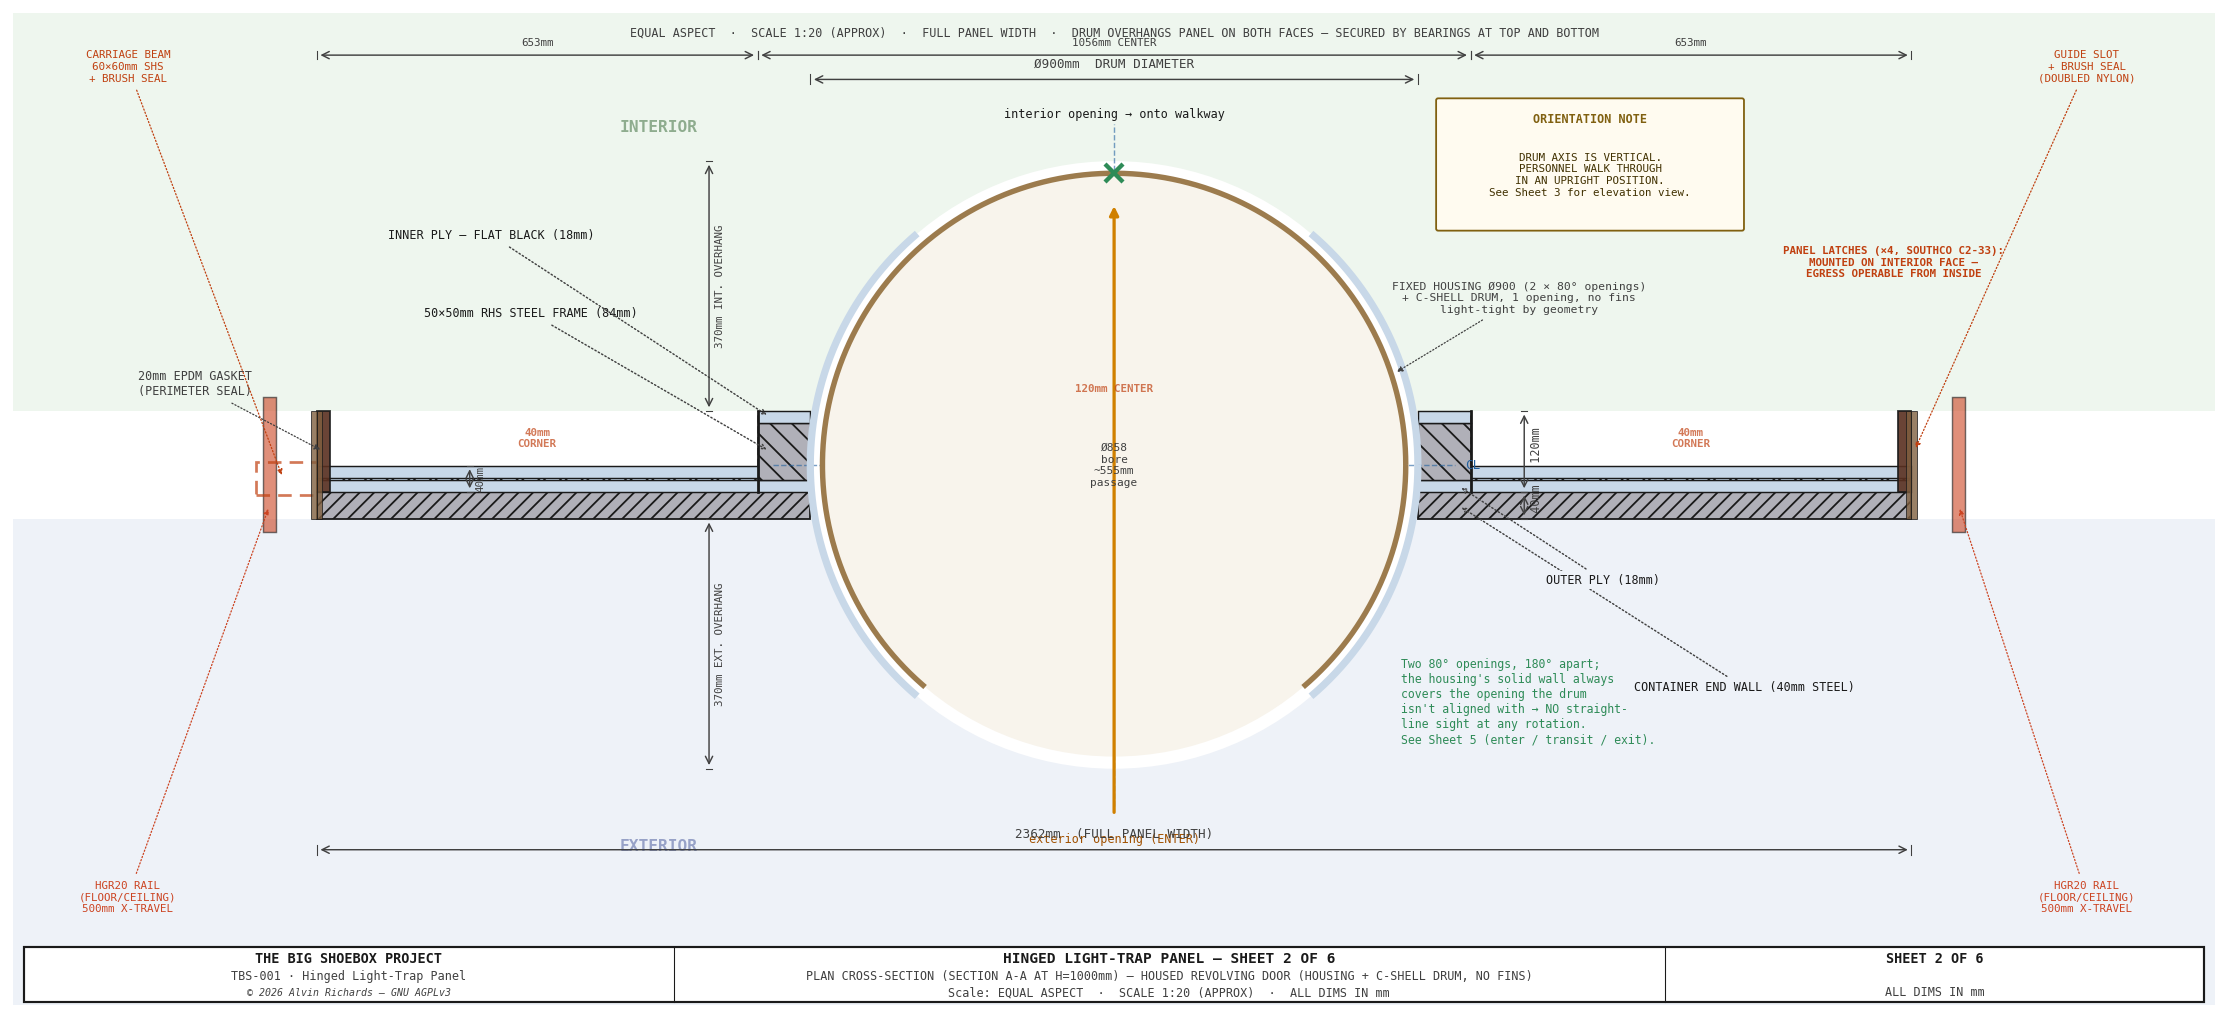
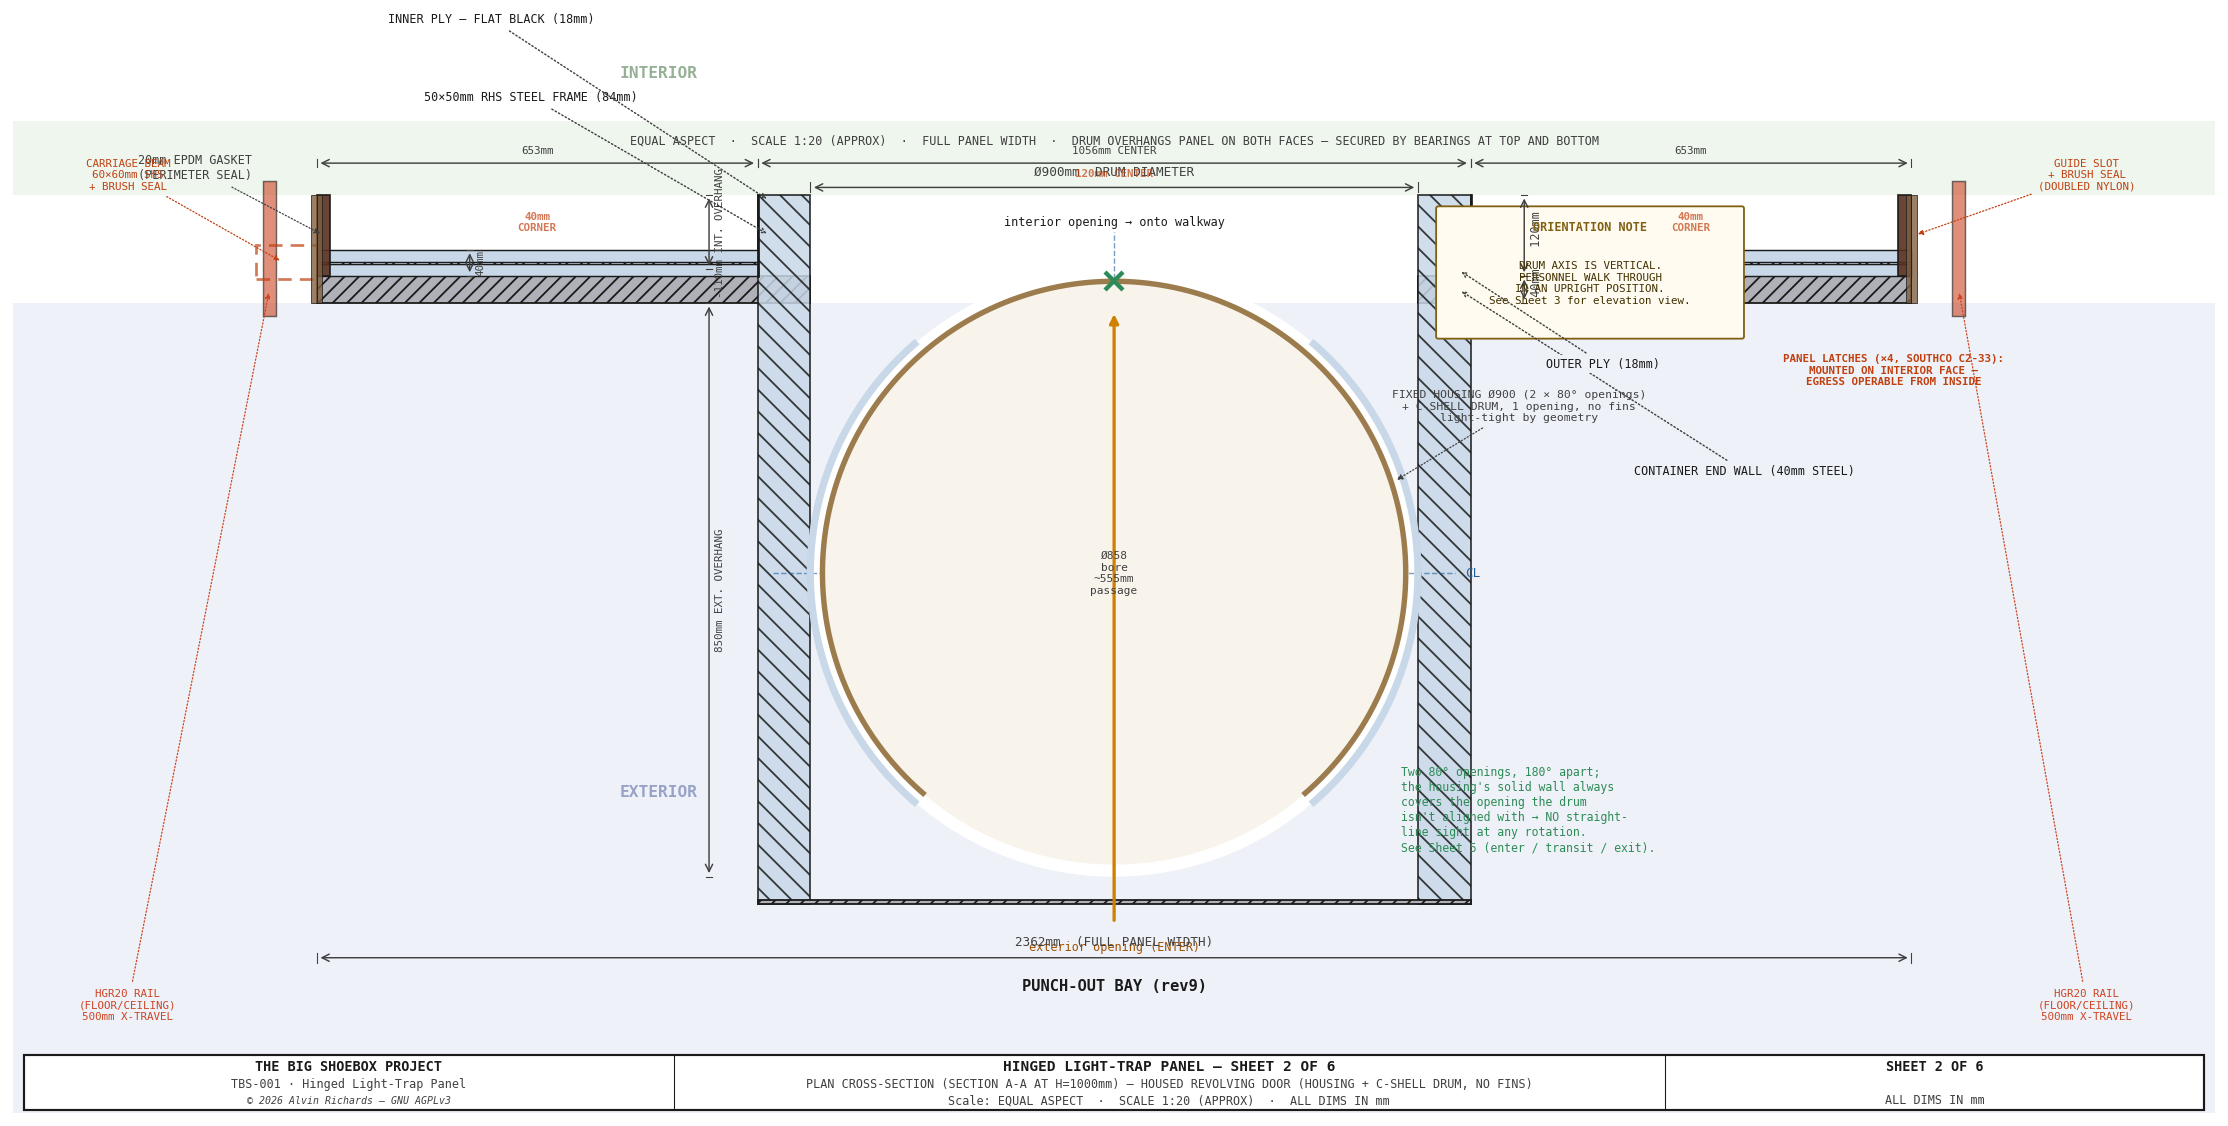
B2 follow-up: hingepanel section sheets — offset housing + punch-out bay
sheet2 (plan section) + sheet3 (elevation section): offset the housing centre in
DEPTH to the container DRUM_CX (-400, derived from BAY_FRONT_X since DRUM_CX is
shadowed locally as the panel-width centre); draw the punch-out bay enclosing it
(side walls + front face). Overhang dims auto-update (-850 exterior / +50 interior).
Fix the stale Ø750 comments (375/-295) — the code already used DRUM_R=450.

diff --git a/src/generators/generate_hingepanel_diagram.py b/src/generators/generate_hingepanel_diagram.py
@@ -37,7 +37,7 @@ from tbs_constants import (
     PANEL_CORNER_YD_L, PANEL_CORNER_YD_R,         # widened center-zone step lines
     LT_DRUM_OR, LT_OPENING_DEG,
     RAIL_X_L,                                    # film-plane left rail (now continuous, B2)
-    FP_Y_MIN, FP_Y, PANEL_SLIDE, PANEL_CENTER_T, DRUM_CY, BAY_FRONT_X,
+    FP_Y_MIN, FP_Y, PANEL_SLIDE, PANEL_CENTER_T, DRUM_CY, BAY_FRONT_X, BAY_WALL_T,
 )
 from tbs_title_block import title_block
 from tbs_drawing import (draw_dim_h, draw_dim_v,
@@ -433,12 +433,14 @@ def sheet2():
 
     # Drum geometry — axis is vertical; plan section shows horizontal circle
     D_CX = PW / 2        # drum centre X: centred in panel width = 1181mm
-    D_CY = (Y_EXT + Y_INT) / 2   # drum centre Y: centre of wall+panel depth = 80mm
+    # B2: housing centre offset out in DEPTH to the container DRUM_CX (= BAY_FRONT_X
+    # + DRUM_R + 40 = -400mm), carried past the door plane by the punch-out bay.
+    D_CY = BAY_FRONT_X + DRUM_R + 40   # = -400mm (container DRUM_CX)
     DR   = DRUM_R        # = 450mm
 
-    # Drum Y extents
-    D_YB = D_CY - DR     # exterior overhang bottom = 80 - 375 = -295mm
-    D_YT = D_CY + DR     # interior overhang top    = 80 + 375 = 455mm
+    # Drum Y (depth) extents
+    D_YB = D_CY - DR     # exterior overhang = -400 - 450 = -850mm
+    D_YT = D_CY + DR     # interior overhang = -400 + 450 = +50mm
 
     # Drum X extents
     D_XL = D_CX - DR    # = 731mm
@@ -492,15 +494,19 @@ def sheet2():
     ax.add_patch(Rectangle((D_XR, Y0_W), PW - D_XR, WALL_T,
                             fc=C_STEEL, ec=C_OUT, lw=1.0, hatch="///", zorder=3))
 
-    # ── CENTER ZONE panel (120mm thick, Yd=653→1709) ─────────────────────────
-    # Outer ply, frame, inner ply — between drum opening edges and step lines
+    # ── CENTER ZONE = B2 PUNCH-OUT BAY ───────────────────────────────────────
+    # The center zone is a rigid box protruding forward (depth from the panel
+    # interior face Y_INT out to BAY_FRONT_X) that encloses the offset Ø900
+    # housing. Side walls run the bay depth; a front face closes the exterior end.
     for x, w in [(STEP_YD_L, D_XL - STEP_YD_L), (D_XR, STEP_YD_R - D_XR)]:
-        ax.add_patch(Rectangle((x, Y0_PL), w, PLY_T,
-                                fc=C_ALUM, ec=C_OUT, lw=0.8, zorder=3))
-        ax.add_patch(Rectangle((x, Y0_FR), w, FRAME_T,
-                                fc=C_STEEL, ec=C_OUT, lw=0.8, hatch="\\\\", zorder=3))
-        ax.add_patch(Rectangle((x, Y0_PL2), w, PLY_T,
-                                fc=C_ALUM, ec=C_OUT, lw=0.8, zorder=3))
+        ax.add_patch(Rectangle((x, BAY_FRONT_X), w, Y_INT - BAY_FRONT_X,
+                                fc=C_ALUM, ec=C_OUT, lw=1.0, hatch="\\\\",
+                                zorder=3, alpha=0.85))
+    ax.add_patch(Rectangle((STEP_YD_L, BAY_FRONT_X), STEP_YD_R - STEP_YD_L, BAY_WALL_T,
+                            fc=C_STEEL, ec=C_OUT, lw=1.0, hatch="///", zorder=4))
+    ax.text((STEP_YD_L + STEP_YD_R) / 2, BAY_FRONT_X - 110, "PUNCH-OUT BAY (rev9)",
+            color=C_OUT, fontsize=8.5, ha="center", va="top", **FONT,
+            fontweight="bold", zorder=15)
 
     # ── CORNER ZONES (40mm thick, Yd=0→653 and Yd=1709→2362) ─────────────────
     # Corner zones: 18mm ply + 3mm aluminum plate + 18mm ply (40mm envelope)
@@ -797,11 +803,11 @@ def sheet3():
     Y1_PL2 = Y0_PL2 + PLY_T  # = 160  (panel interior face)
 
     # Drum geometry in this view
-    D_CX_DEPTH = (Y0_W + Y1_PL2) / 2   # drum centre in depth = 80mm
+    D_CX_DEPTH = BAY_FRONT_X + DRUM_R + 40   # B2: housing depth centre = -400mm (DRUM_CX)
     D_HALF_W   = DRUM_R                 # drum/housing radius = 450mm (in depth axis)
 
-    D_DEPTH_L  = D_CX_DEPTH - D_HALF_W   # = 80 - 375 = -295mm (exterior overhang)
-    D_DEPTH_R  = D_CX_DEPTH + D_HALF_W   # = 80 + 375 = 455mm  (interior overhang)
+    D_DEPTH_L  = D_CX_DEPTH - D_HALF_W   # = -400 - 450 = -850mm (exterior overhang)
+    D_DEPTH_R  = D_CX_DEPTH + D_HALF_W   # = -400 + 450 = +50mm  (interior overhang)
 
     # Height positions (vertical axis in this view)
     H_FLOOR    = 0
